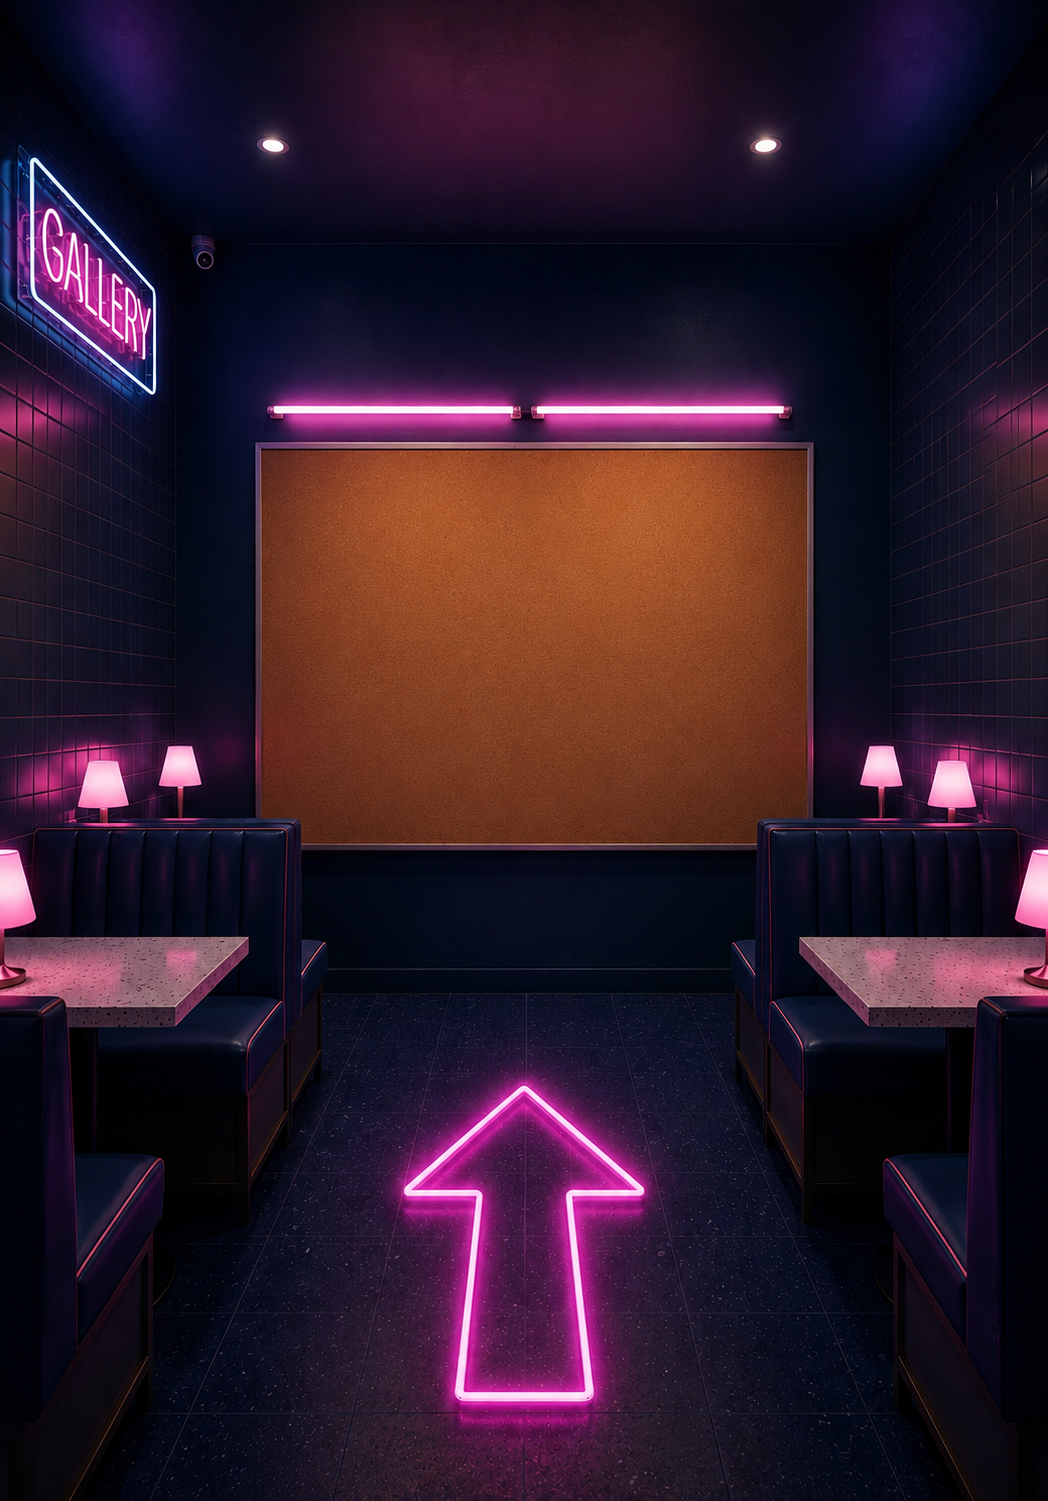
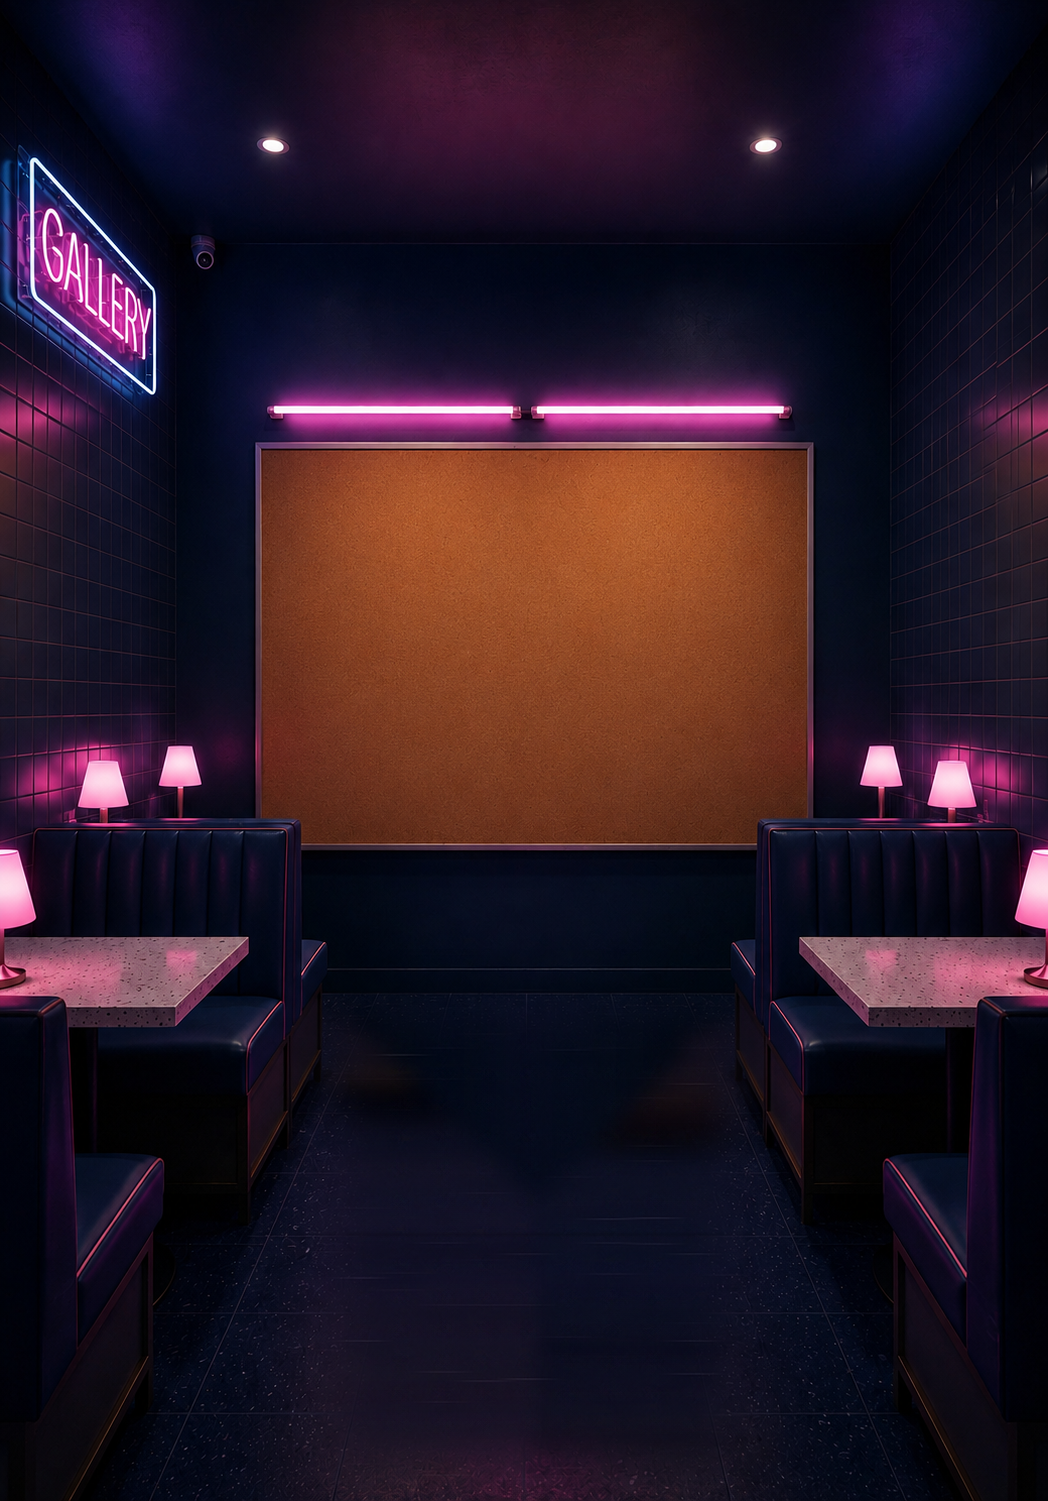
Replace painted gallery floor arrow with the code-drawn neon arrow
The gallery artwork had a neon arrow baked into the floor, which doubled
up with the interactive arrow overlay on tall viewports. The painted
arrow (tube, glow and floor highlight streaks) is now removed from
/scenes/gallery.png — the corridor floor is resynthesized from the
surrounding tile texture with the grout seams redrawn — and NeonArrow
is upgraded to be its 1:1 stand-in: rounded tube corners and a
white-hot core inside a saturated stroke, colors sampled from the
painted original. All scene and landing arrows share the style.

Nav polish: navbar items stay highlighted on the destination pages
(/slots, /coinpusher, /board) after stepping in from their scenes, and
The Board page gains a "Back to the gallery" link so the walk-through
is a round trip.

Claude-Session: https://claude.ai/code/session_01EwxHqnsp8y3qVUt2KeS4Qa

Changed region(s): [[0.3359, 0.6742, 0.6718, 0.9807]]

diff --git a/src/components/scene/NeonArrow.tsx b/src/components/scene/NeonArrow.tsx
@@ -26,9 +26,24 @@ interface NeonArrowProps {
   className?: string;
 }
 
+/** Arrow outline with rounded corners (radius 6), matched to the neon floor
+ *  arrow originally painted into the gallery artwork (since removed from the
+ *  image — this SVG is its 1:1 replacement). */
+const TUBE_PATH =
+  'M 86.76 45.76 Q 91 50 85 50 L 73 50 Q 67 50 67 56 L 67 115 Q 67 121 61 121 ' +
+  'L 39 121 Q 33 121 33 115 L 33 56 Q 33 50 27 50 L 15 50 Q 9 50 13.24 45.76 ' +
+  'L 45.76 13.24 Q 50 9 54.24 13.24 Z';
+
+/** Tube colors sampled from the painted arrow: a saturated magenta tube with a
+ *  near-white hot core (cyan variant mirrors the same treatment). */
+const TUBE = {
+  cerise: { outer: '#FA3AD3', core: '#FFEBFC' },
+  cyan: { outer: '#26D8E8', core: '#EDFEFF' },
+} as const;
+
 /**
- * A glowing neon-tube arrow — a hand-drawn recreation of the painted arrows in
- * the Sweetardio scene, turned into an interactive navigation control.
+ * A glowing neon-tube arrow — a 1:1 code recreation of the arrows painted in
+ * the Sweetardio scene art, turned into an interactive navigation control.
  *
  * Transforms are layered across nested elements so they never collide:
  *   button (hit area) → .sw-arrow-fx (floor tilt + hover scale)
@@ -43,7 +58,7 @@ const NeonArrow: React.FC<NeonArrowProps> = ({
   floor = false,
   className = '',
 }) => {
-  const stroke = color === 'cyan' ? '#c9f8fb' : '#ffc8ed';
+  const tube = TUBE[color];
   const tilt = floor ? 'perspective(560px) rotateX(48deg)' : 'rotateX(0deg)';
 
   return (
@@ -65,14 +80,9 @@ const NeonArrow: React.FC<NeonArrowProps> = ({
             className={`sw-neon-arrow ${color === 'cyan' ? 'is-cyan' : ''}`}
             style={{ transform: `rotate(${ROTATION[dir]}deg)`, display: 'block' }}
           >
-            {/* Hollow arrow outline drawn as a single rounded neon tube. */}
-            <path
-              d="M50 9 L91 50 L67 50 L67 121 L33 121 L33 50 L9 50 Z"
-              stroke={stroke}
-              strokeWidth={7}
-              strokeLinejoin="round"
-              strokeLinecap="round"
-            />
+            {/* Hollow rounded tube: saturated outer stroke + white-hot core. */}
+            <path d={TUBE_PATH} stroke={tube.outer} strokeWidth={6.5} strokeLinejoin="round" strokeLinecap="round" />
+            <path d={TUBE_PATH} stroke={tube.core} strokeWidth={2.8} strokeLinejoin="round" strokeLinecap="round" />
           </svg>
         </span>
       </span>

diff --git a/src/App.tsx b/src/App.tsx
@@ -19,12 +19,14 @@ const NAV_HEIGHT = 56;
 
 const MINT_URL = 'https://www.launchmynft.io/mint/sweetardio';
 
-/** Site navigation. Slots / Coinpusher deep-link into the arcade walk-through. */
-const NAV_LINKS: { label: string; to: string; hover: string }[] = [
+/** Site navigation. Slots / Coinpusher / The Board deep-link into the arcade
+ *  walk-through; `also` keeps the item highlighted once you've stepped from
+ *  the scene into the destination itself. */
+const NAV_LINKS: { label: string; to: string; hover: string; also?: string[] }[] = [
   { label: 'Arcade', to: '/arcade', hover: 'hover:text-sweetardios-cerise' },
-  { label: 'Slots', to: '/arcade?to=slots', hover: 'hover:text-sweetardios-cerise' },
-  { label: 'Coinpusher', to: '/arcade?to=pusher', hover: 'hover:text-sweetardios-cyan' },
-  { label: 'The Board', to: '/arcade?to=gallery', hover: 'hover:text-sweetardios-cyan' },
+  { label: 'Slots', to: '/arcade?to=slots', hover: 'hover:text-sweetardios-cerise', also: ['/slots'] },
+  { label: 'Coinpusher', to: '/arcade?to=pusher', hover: 'hover:text-sweetardios-cyan', also: ['/coinpusher'] },
+  { label: 'The Board', to: '/arcade?to=gallery', hover: 'hover:text-sweetardios-cyan', also: ['/board'] },
   { label: 'Whitelist', to: '/whitelist', hover: 'hover:text-sweetardios-cyan' },
 ];
 
@@ -32,10 +34,11 @@ const AppInner: React.FC = () => {
   const [menuOpen, setMenuOpen] = useState(false);
   const location = useLocation();
 
-  const isActive = (to: string) => {
+  const isActive = (to: string, also?: string[]) => {
+    if (also?.includes(location.pathname)) return true;
     const [path, query] = to.split('?');
     if (location.pathname !== path) return false;
-    return query ? location.search === `?${query}` : true;
+    return query ? location.search === `?${query}` : location.search === '';
   };
 
   return (
@@ -65,7 +68,7 @@ const AppInner: React.FC = () => {
                 key={l.label}
                 to={l.to}
                 className={`text-sm transition-colors ${l.hover} ${
-                  isActive(l.to) ? 'font-semibold text-white' : 'text-blue-100/70'
+                  isActive(l.to, l.also) ? 'font-semibold text-white' : 'text-blue-100/70'
                 }`}
               >
                 {l.label}
@@ -118,7 +121,7 @@ const AppInner: React.FC = () => {
                 to={l.to}
                 onClick={() => setMenuOpen(false)}
                 className={`border-b border-white/5 py-3 text-sm uppercase tracking-[0.18em] transition-colors ${l.hover} ${
-                  isActive(l.to) ? 'font-semibold text-white' : 'text-blue-100/70'
+                  isActive(l.to, l.also) ? 'font-semibold text-white' : 'text-blue-100/70'
                 }`}
               >
                 {l.label}

diff --git a/src/pages/Board.tsx b/src/pages/Board.tsx
@@ -1,4 +1,5 @@
 import { useCallback, useEffect, useState } from 'react';
+import { Link } from 'react-router-dom';
 import { BoardPost, BoardPaper, fetchBoardPosts } from '../services/boardService';
 import { FALLBACK_BOARD_POSTS } from '../content/boardPosts';
 
@@ -179,6 +180,14 @@ export default function BoardPage() {
       </div>
 
       <section className="mx-auto max-w-5xl px-5 pb-20 pt-10 sm:px-8">
+        {/* Step back into the walk-through, mirroring the scene's back arrow */}
+        <Link
+          to="/arcade?to=gallery"
+          className="absolute left-4 top-4 inline-flex items-center gap-2 border border-sweetardios-cyan/40 bg-sweetardios-oxford/70 px-3 py-1.5 text-[11px] font-bold uppercase tracking-[0.2em] text-sweetardios-cyan backdrop-blur transition-colors hover:bg-sweetardios-cyan hover:text-sweetardios-oxford sm:left-6 sm:top-6"
+        >
+          <span aria-hidden>←</span> Back to the gallery
+        </Link>
+
         {/* Neon header */}
         <header className="text-center">
           <p className="text-[11px] font-bold uppercase tracking-[0.3em] text-sweetardios-cyan">Sweetardio Diner</p>